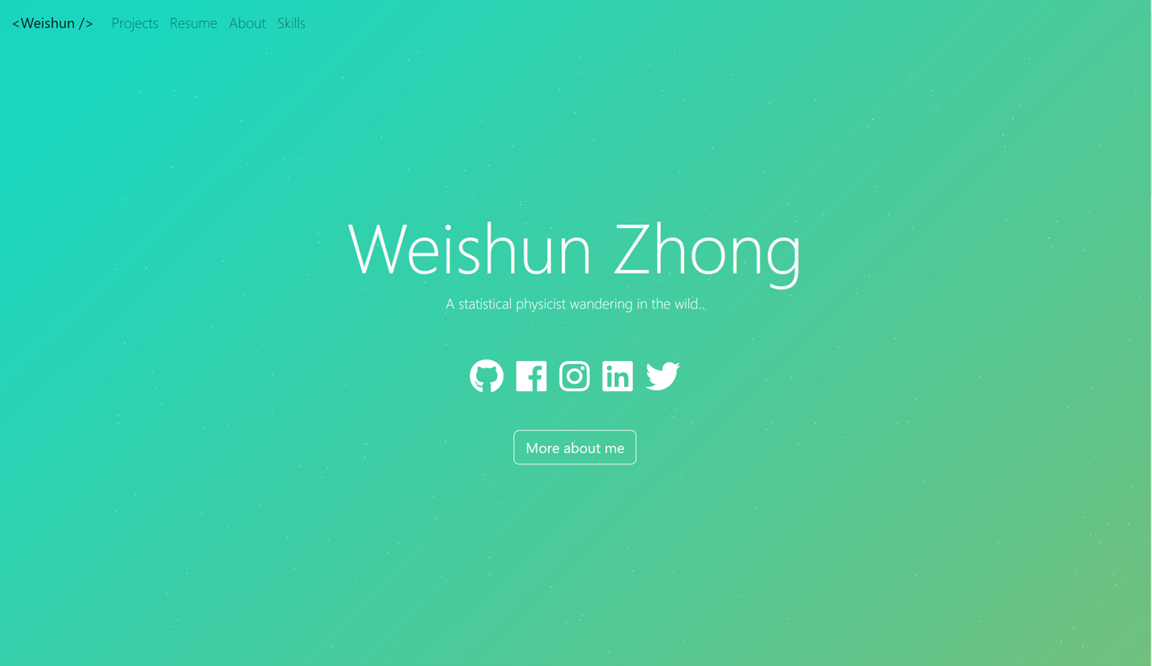
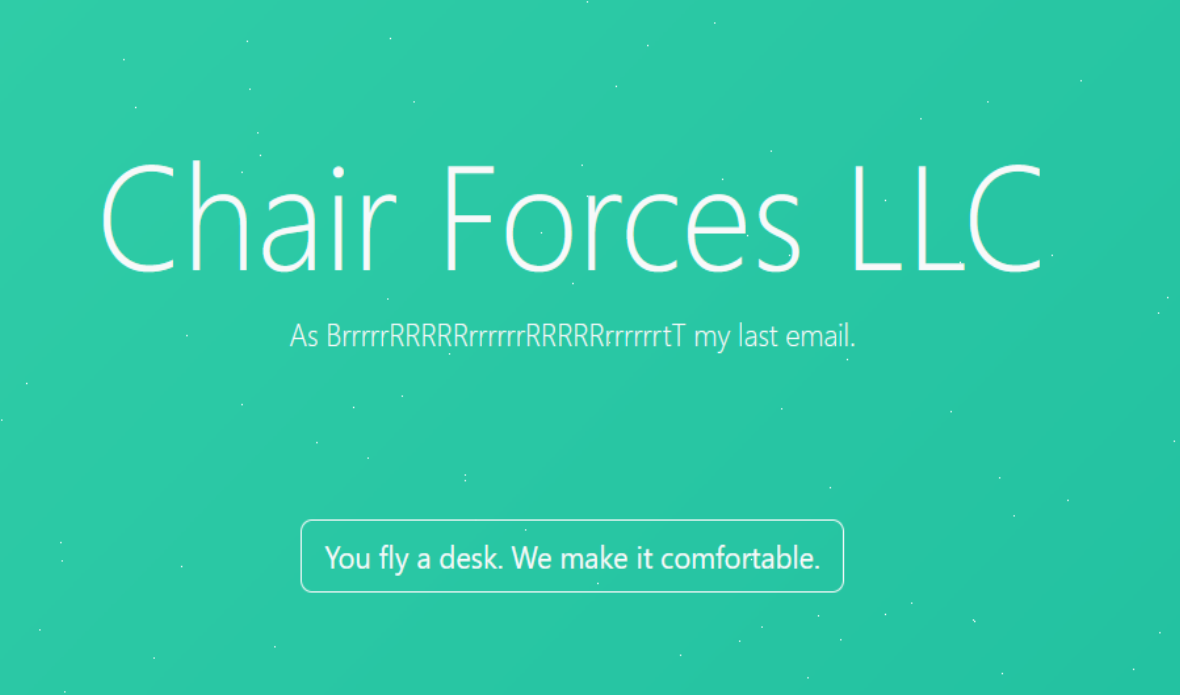
deleted:    .package.json.un~ 	deleted:    .pages.js.un~ 	modified:   README.md 	deleted:    pages.js~ 	deleted:    public/.index.html.un~ 	deleted:    public/index.html~ 	modified:   public/social-image.png

diff --git a/README.md b/README.md
@@ -1,230 +1,14 @@
 <!-- PROJECT LOGO -->
 <br />
 <p align="center">
-  <h1 align="center">Developer's Portfolio ✨</h1>
+  <h1 align="center">Chair Forces LLC ✨</h1>
 
   <p align="center">
-    Personal academic website to showcase my research. Site URL : 
-    <a href="https://zhongweishun.github.io/home/">zhongweishun.github.io/home</a>
+    A brand website to show off Chair Forces products: 
+    <a href="https://chairforc.es/">https://chairforc.es/</a>
     <br />
     <br />
-    modified from Hashir Shoaib's template:
-    <a href="https://hashirshoaeb.github.io/home">hashirshoaeb.github.io/home</a>
+    modified from Hashir Shoaib and Weishun Zhong's templates:
   </p>
 </p>
 
-![GitHub contributors](https://img.shields.io/github/contributors/hashirshoaeb/home?color=ffcc66&style=for-the-badge)
-![GitHub stars](https://img.shields.io/github/stars/hashirshoaeb/home?color=ffcc66&style=for-the-badge)
-[![GitHub forks](https://img.shields.io/github/forks/hashirshoaeb/home?style=for-the-badge)](https://github.com/hashirshoaeb/star_book/network)
-[![GitHub issues](https://img.shields.io/github/issues/hashirshoaeb/home?color=ffcc66&style=for-the-badge)](https://github.com/hashirshoaeb/star_book/issues)
-[![GitHub license](https://img.shields.io/github/license/hashirshoaeb/home?style=for-the-badge)](https://github.com/hashirshoaeb/home/blob/master/LICENSE)
-[![Twitter Follow](https://img.shields.io/twitter/follow/hashirshoaeb?color=ffcc66&logo=twitter&logoColor=ffffff&style=for-the-badge)](https://twitter.com/hashirshoaeb)
-[![Node Version](https://img.shields.io/static/v1?label=Node&message=v16.16.0&color=026e00&style=for-the-badge)](https://nodejs.org)
-[![npm Version](https://img.shields.io/static/v1?label=npm&message=8.11.0&color=cb0000&style=for-the-badge)](https://nodejs.org)
-
-[![Site preview](/public/social-image.png)](https://hashirshoaeb.github.io/home)
-
-## Table of Contents
-
-- [Technology Stack 🛠](#technology-stack-)
-- [Structure ⚓](#structure-)
-- [Sharing 💗](#sharing-)
-- [Prerequisites 🍪](#prerequisites-)
-- [Setup And Deployment 🔧](#setup-and-deployment-)
-- [Contributing 🙌](#contributing-)
-- [Issues](#issues)
-- [Upcoming Features / Improvements 🔗](#upcoming-features-/-improvements-)
-- [Showcase 🚀](#showcase-)
-- [Versão em Português :brazil:](#versao-em-portugues-)
-
-## Technology Stack 🛠
-
-Dependencies defined in package.json:
-
-[Reactjs](https://reactjs.org/)
-| [Bootstrap](https://getbootstrap.com/)
-| [Typist](https://github.com/jstejada/react-typist)
-| [GitHub API](https://developer.github.com/v3/repos/)
-| [Instagram API](https://www.instagram.com/developer/embedding/)
-
-## Structure ⚓
-
-- Navigation bar (optional)
-- Body
-  - Name | Profession
-  - Contact / Follow / Find me / Facebook / LinkedIn / GitHub / Instagram / Email / CodePen
-  - Resume | About me
-- About Me
-  - Display picture (optional)
-  - About myself, my Interests, Goals and Hobbies
-  - Things I'm good at (Skills)
-  - Resume button
-- Recent Projects (using GitHub API) (optional)
-- Leadership (optional)
-  - Paragraph
-  - Carousel images
-- Skills (optional)
-  - Technical Skills
-  - Soft Skills
-- Footer
-  - Footer Note (optional)
-  - Copyrights - open source
-  - Acknowledgements(
-
-## Sharing 💗
-
-Project is open source. Feel free to make your own version. All you need to do is to fork this repository, edit [src/editable-stuff/config.js](./src/editable-stuff/config.js) and add resume. Mark star ⭐ if you like the project.
-
-## Prerequisites 🍪
-
-You should have [Node.js](https://nodejs.org/en/) and [Git](https://git-scm.com/) installed on your PC. You should also own a GitHub account.
-
-## Setup And Deployment 🔧
-
-1. To Get Started, Fork this repository to your GitHub account:
-2. Clone the forked repo from your account using:
-
-   ```bash
-     git clone https://github.com/<your-username>/home.git
-   ```
-
-3. Open in editor and edit [src/editable-stuff/config.js](./src/editable-stuff/config.js) file.
-
-4. Add your resume as <resume.pdf> in place of [src/editable-stuff/resume.pdf](./src/editable-stuff/)
-
-5. Edit [title](./public/index.html#L34) and meta [description](./public/index.html#L13) in [public/index.html](./public/index.html).
-6. Change URL in [package.json](./package.json) file:
-
-   ```json
-    "homepage": "https://<your-username>.github.io/home"
-   ```
-
-   Or for deployment at custom domain, refer [create-react-app.dev](https://create-react-app.dev/docs/deployment/#step-1-add-homepage-to-packagejson)
-
-7. After editing run the following bash commands:
-
-   ```bash
-   npm install
-   npm start
-   ```
-
-8. To deploy website, run:
-
-   ```bash
-    npm run build
-    npm run deploy
-   ```
-
-   Or for deployment at \<username>.github.io, refer [READMEdocs/custom-deployment.md](./READMEdocs/custom-deployment.md) and [pages.js](./pages.js)
-
-9. Congrats your site is up and running. To see it live, visit:
-
-   ```https
-     https://<your-username>.github.io/home
-   ```
-
-10. To change the thumbnail image:
-
-    - Navigate to the "public" folder.  
-    - There you will see "social-image.png".  
-    - Delete it.   
-    - Take a screenshot of your version and rename it "social-image.png" and place it there.  
-    
-   Next time if you make changes, repeat from step 8.
-
-Facing issues? Feel free to contact at hashirshoaeb@gmail.com.
-
-## Showcase 🚀
-
-Have you changed something in the code to create your own version? Feel free to share with me, I will list them in this space.
-
-<table>
-  <tr>
-    <td align="center">
-      <a href="https://github.com/justiceserv/justiceserv.github.io">
-        <img src="READMEdocs/justiceserv-github-io-home.gif" width="300px" alt="" />
-        <br />
-        <sub><b>Guhyun Chung</b></sub>
-      </a>
-      <br />
-    </td>
-    <td align="center">
-      <a href="https://github.com/hamzasohail0/home/">
-        <img src="READMEdocs/hamzasohail0-github-io-home.gif" width="300px" alt="" />
-        <br />
-        <sub><b>Hamza Sohail</b></sub>
-      </a>
-      <br />
-    </td>
-    <td align="center">
-      <a href="https://github.com/AymunTariq/home/">
-        <img src="READMEdocs/aymuntariq-github-io-home.gif" width="300px" alt="" />
-        <br />
-        <sub><b>Aymun Tariq</b></sub>
-      </a>
-      <br />
-    </td>
-  </tr>
-  <tr>
-    <td align="center">
-      <a href="https://github.com/anaashrafi/home/">
-        <img src="READMEdocs/anaashrafi-github-io-home.gif" width="300px" alt="" />
-        <br />
-        <sub><b>Ana Ashrafi</b></sub>
-      </a>
-      <br />
-    </td>
-    <td align="center">
-      <a href="https://github.com/jefferyjohn/home/">
-        <img src="READMEdocs/jefferyjohn-github-io-home.gif" width="300px" alt="" />
-        <br />
-        <sub><b>Jeffery John</b></sub>
-      </a>
-      <br />
-    </td>
-    <td align="center">
-      <a href="https://github.com/remimestdagh/home/">
-        <img src="READMEdocs/remimestdagh-github-io-home.gif" width="300px" alt="" />
-        <br />
-        <sub><b>Remi Mestdagh</b></sub>
-      </a>
-      <br />
-    </td>
-  </tr>
-    <tr>
-    <td align="center">
-      <a href="https://github.com/xunxdd/portfolio/tree/master">
-        <br />
-        <sub><b>Xun Ding</b></sub>
-      </a>
-      <br />
-    </td>    
-    <td align="center">
-      <a href="https://github.com/S-Philp/Shannel.philp">
-        <br />
-        <sub><b>Shannel Philp</b></sub>
-      </a>
-      <br />
-    </td>    
-    <td align="center">
-      <a href="https://github.com/bibinvargheset/home">
-        <br />
-        <sub><b>Bibin Varghese</b></sub>
-      </a>
-      <br />
-    </td>
-  </tr>
-</table>
-
-## Versão em Português :brazil:
-
-Esse projeto foi traduzido para português! Se você gostou dele e quer criar a sua própria versão, confira o repositório do [@tashima42](https://github.com/tashima42) em [https://github.com/Tashima42/home](https://github.com/Tashima42/home).
-Novas contribuições e revisões na tradução são muito bem vindas!
-
-## Notice:
-
-This project has been archived. Means that it is no longer actively maintained by developer. Free free to fork, use and maintain your own version. You can check my new portfolio template [here](https://github.com/hashirshoaeb/portfolio)
-
-## Stargazers over time
-
-[![Stargazers over time](https://starchart.cc/hashirshoaeb/home.svg)](https://starchart.cc/hashirshoaeb/home)
